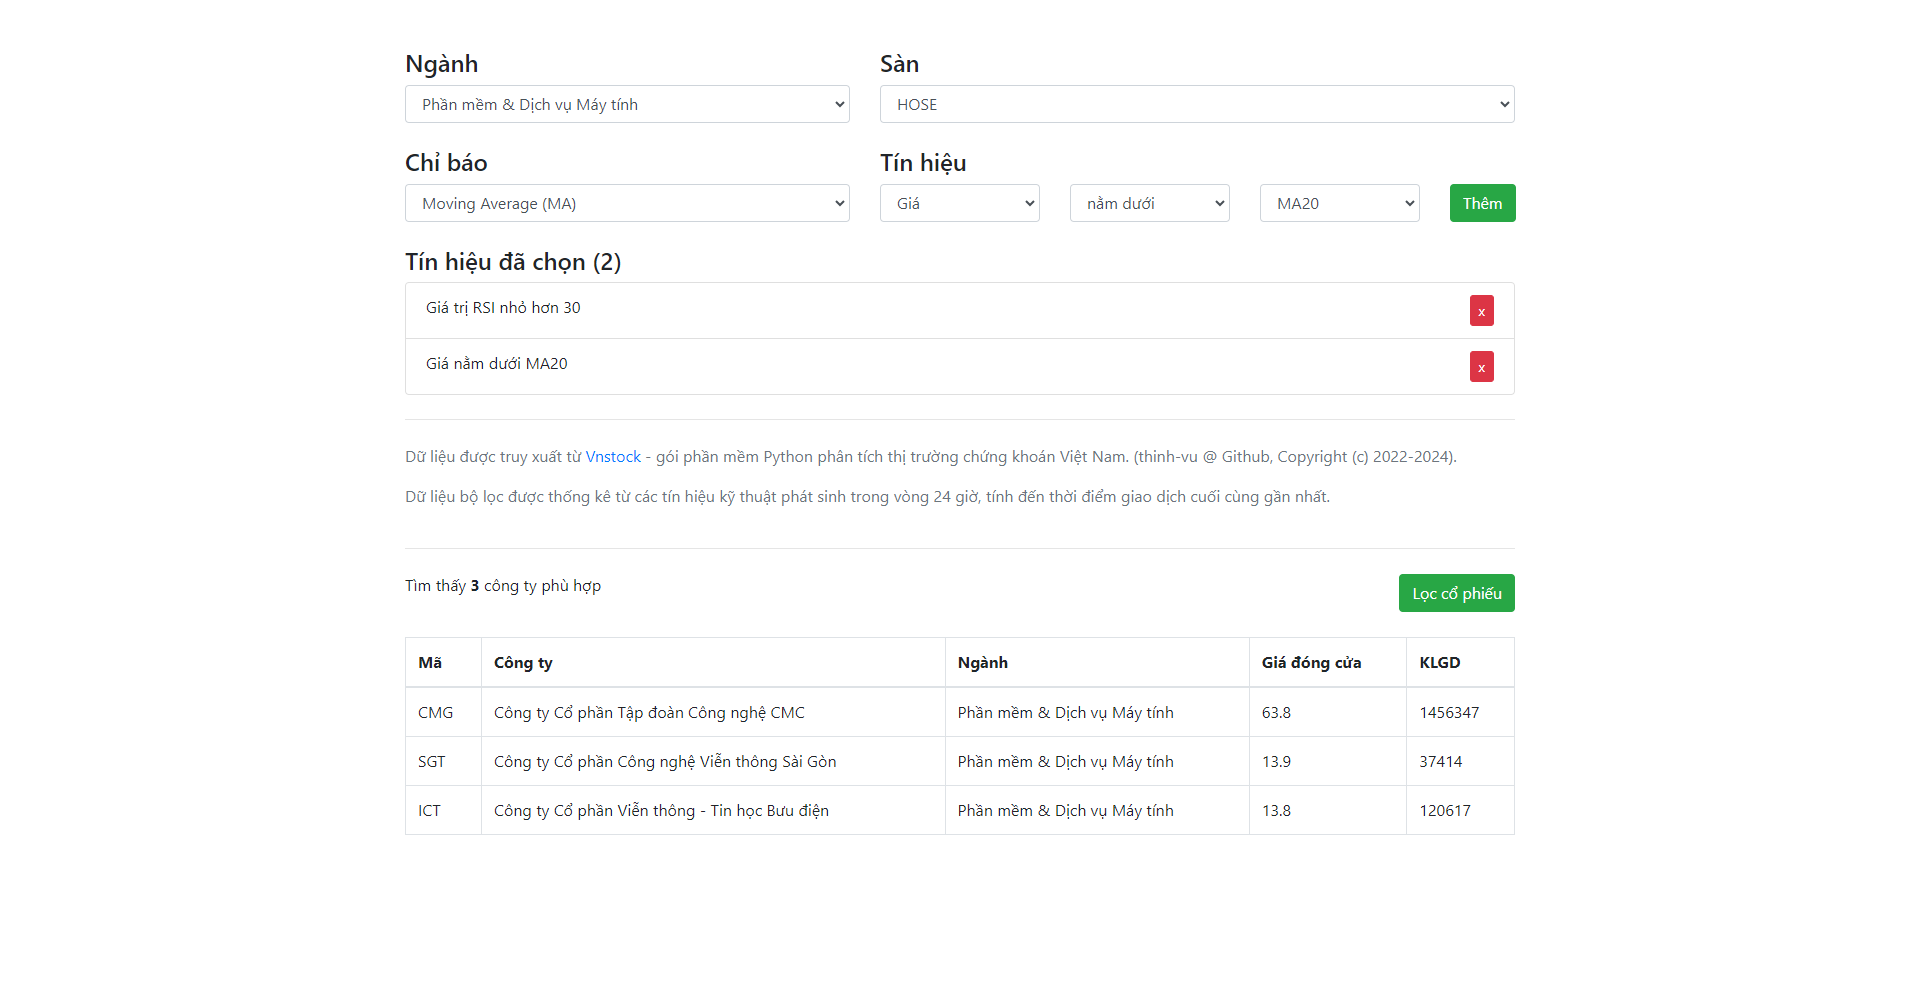
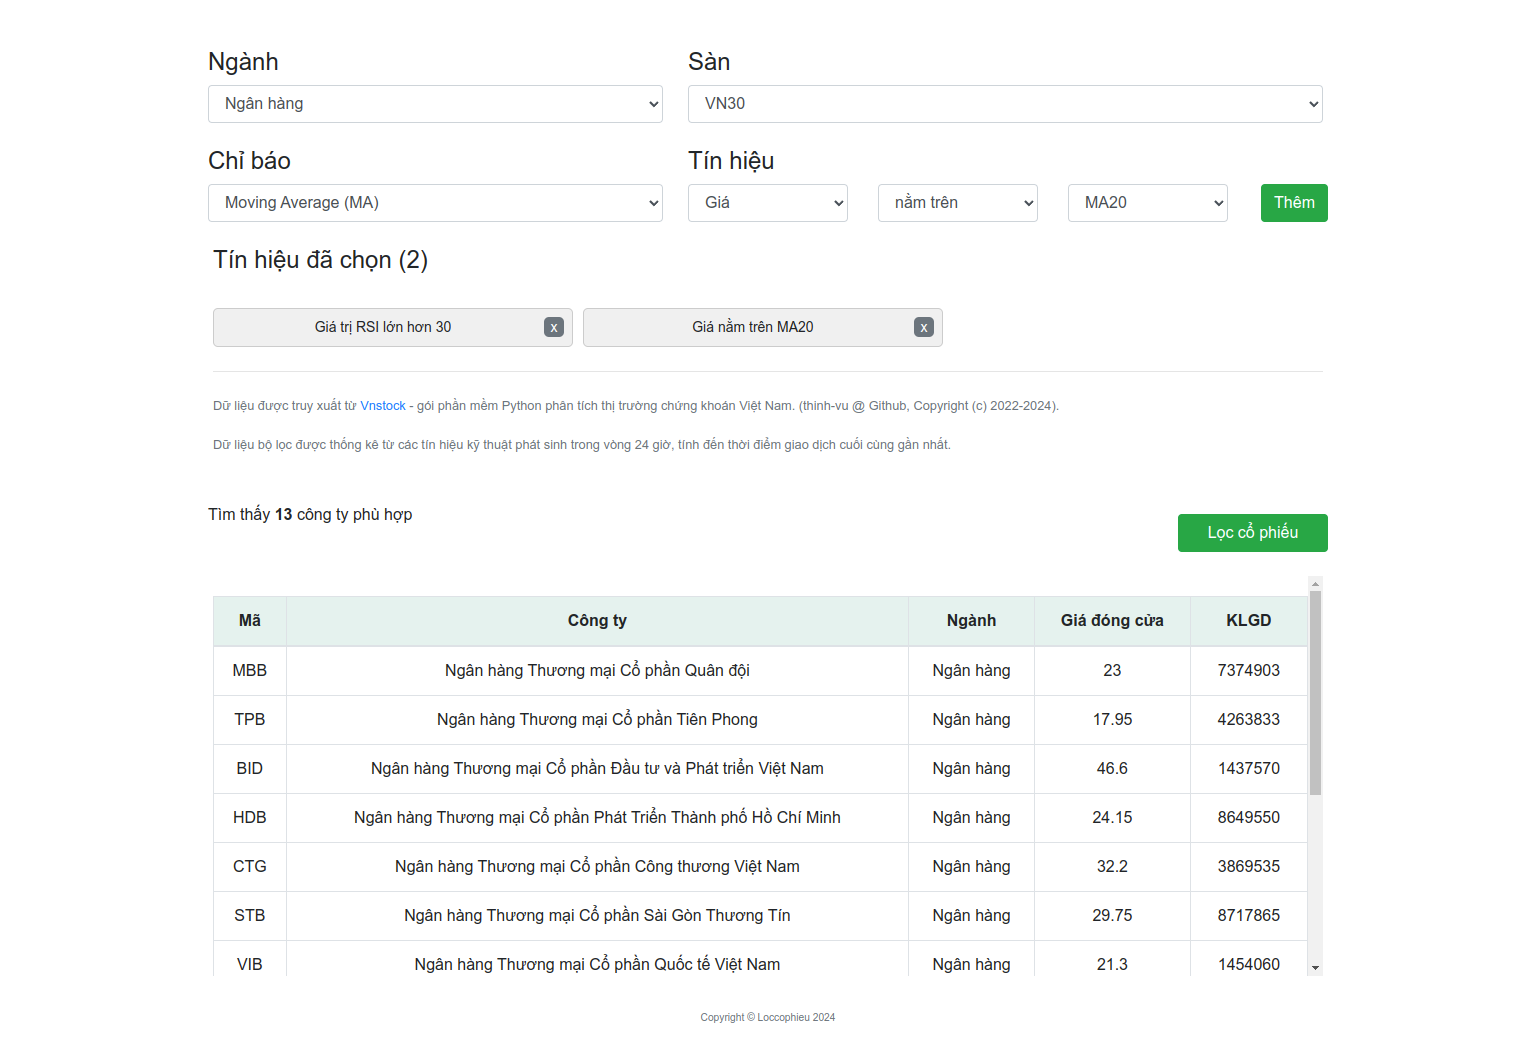
update

diff --git a/static/js/script.js b/static/js/script.js
@@ -67,8 +67,12 @@ $(document).ready(function() {
     // Biến để lưu số lượng tín hiệu đã chọn
     var selectedSignalsCount = 0;
 
+    // Biến để lưu các tín hiệu đã chọn
+    var selectedSignals = {};
+
     // Function để cập nhật số lượng tín hiệu đã chọn
     function updateSelectedSignalsCount() {
+        selectedSignalsCount = Object.keys(selectedSignals).length;
         $('#selectedSignalsHeader').text(`Tín hiệu đã chọn (${selectedSignalsCount})`);
     }
 
@@ -77,39 +81,46 @@ $(document).ready(function() {
         var selectedSignal1 = $('#signalSelect1').val();
         var selectedSignal2 = $('#signalSelect2').val();
         var selectedSignal3 = $('#signalSelect3').val();
-        if (selectedSignal1 && selectedSignal2 && selectedSignal3) {
-            var displaySignal1 = $('#signalSelect1 option:selected').text();
-            var displaySignal2 = $('#signalSelect2 option:selected').text();
-            var displaySignal3 = $('#signalSelect3 option:selected').text();
-            
-            // Combine the signal parts correctly
-            var combinedSignal = selectedSignal1;
-            if (selectedSignal2) {
-                combinedSignal += `_${selectedSignal2}`;
-            }
-            if (selectedSignal3) {
-                combinedSignal += `_${selectedSignal3}`;
-            }
 
-            var listItem = `<li class="list-group-item" data-signal="${combinedSignal}">${displaySignal1} ${displaySignal2} ${displaySignal3} <button class="btn btn-sm btn-danger float-right remove-signal" data-toggle="tooltip" title="Bỏ chọn tín hiệu">x</button></li>`;
-            $('#selectedSignals').append(listItem);
-            selectedSignalsCount++; // Tăng số lượng tín hiệu đã chọn
-            updateSelectedSignalsCount(); // Cập nhật hiển thị số lượng
+        // Kiểm tra tín hiệu đã được chọn trước đó
+        var combinedSignal = [selectedSignal1, selectedSignal2, selectedSignal3].filter(Boolean).join('_');
+        if (selectedSignals[combinedSignal]) {
+            alert('Tín hiệu này đã được chọn trước đó.');
+            return;
         }
+
+        // Thêm tín hiệu vào danh sách đã chọn
+        selectedSignals[combinedSignal] = true;
+
+        // Hiển thị tín hiệu đã chọn trên giao diện
+        var displaySignals = [$('#signalSelect1 option:selected').text(), $('#signalSelect2 option:selected').text(), $('#signalSelect3 option:selected').text()].filter(Boolean).join(' ');
+        var listItem = `<li class="list-group-item" data-signal="${combinedSignal}">${displaySignals} <button class="btn btn-sm btn-danger float-right remove-signal" data-toggle="tooltip" title="Bỏ chọn tín hiệu">x</button></li>`;
+        $('#selectedSignalsContainer').append(listItem);
+
+        // Cập nhật số lượng tín hiệu đã chọn
+        updateSelectedSignalsCount();
     });
 
     // Event listener for removing selected signal
-    $('#selectedSignals').on('click', '.remove-signal', function() {
-        $(this).parent().remove();
-        selectedSignalsCount--; // Giảm số lượng tín hiệu đã chọn
-        updateSelectedSignalsCount(); // Cập nhật hiển thị số lượng
+    $('#selectedSignalsContainer').on('click', '.remove-signal', function() {
+        var listItem = $(this).parent();
+        var signalToRemove = listItem.data('signal');
+
+        // Xóa tín hiệu khỏi danh sách đã chọn
+        delete selectedSignals[signalToRemove];
+
+        // Xóa khỏi giao diện
+        listItem.remove();
+
+        // Cập nhật số lượng tín hiệu đã chọn
+        updateSelectedSignalsCount();
     });
 
     // Event listener for search button click
     $('#searchButton').click(function() {
         var industry = $('#industrySelect').val();
         var group = $('#groupSelect').val();
-        var signal = $('#selectedSignals li').map(function() {
+        var signal = $('#selectedSignalsContainer li').map(function() {
             return $(this).data('signal');
         }).get();
 

diff --git a/static/css/style.css b/static/css/style.css
@@ -24,10 +24,43 @@
     margin: 20px 0;
 }
 
-/* Style for selected signals list */
-#selectedSignals {
-    list-style-type: none;
-    padding-left: 0;
+/* Style cho danh sách tín hiệu đã chọn */
+#selectedSignalsContainer {
+    display: flex;
+    flex-wrap: wrap;
+    gap: 10px;
+}
+
+#selectedSignalsContainer .list-group-item {
+    flex-basis: calc(33.33% - 10px);
+    max-width: calc(33.33% - 10px);
+    word-wrap: break-word;
+    text-align: center;
+    background-color: #f0f0f0;
+    border: 1px solid #ccc;
+    border-radius: 5px;
+    padding: 8px;
+    font-size: 14px; /* Điều chỉnh kích thước font nếu cần */
+}
+
+#selectedSignalsContainer .list-group-item .remove-signal {
+    color: #fff; /* Màu chữ của nút "x" */
+    background-color: #6c757d; /* Màu xám */
+    border: none;
+    padding: 0; /* Không padding để canh chữ "x" ở giữa */
+    border-radius: 5px; /* Bo tròn các góc */
+    font-size: 14px; /* Kích thước chữ "x" nhỏ hơn */
+    display: flex;
+    align-items: center;
+    justify-content: center;
+    width: 20px;
+    height: 20px;
+}
+
+/* Hiệu ứng hover cho nút "x" */
+#selectedSignalsContainer .list-group-item .remove-signal:hover {
+    background-color: #5a6268; /* Màu xám đậm hơn khi hover */
+    cursor: pointer;
 }
 
 /* Style for search button */
@@ -37,7 +70,7 @@
 }
 
 /* Adjust input and button alignment */
-#filterHours, #addSignalButton {
+#addSignalButton {
     margin-top: 30px;
 }
 
@@ -46,6 +79,11 @@
     .col-md-6, .col-md-5, .col-md-1 {
         padding-right: 0;
         padding-left: 0;
+    }
+
+    #selectedSignalsContainer .list-group-item {
+        flex-basis: calc(50% - 10px);
+        max-width: calc(50% - 10px);
     }
 }
 

diff --git a/templates/index.html b/templates/index.html
@@ -54,9 +54,9 @@
             <div class="col-12">
                 <h4 id="selectedSignalsHeader">Tín hiệu đã chọn (0)</h4>
                 <div class="row mt-4"></div>
-                <ul id="selectedSignals" class="list-group">
+                <div id="selectedSignalsContainer">
                     <!-- Selected signals will be dynamically added here -->
-                </ul>
+                </div>
             </div>
         </div>
         <hr class="my-4">
